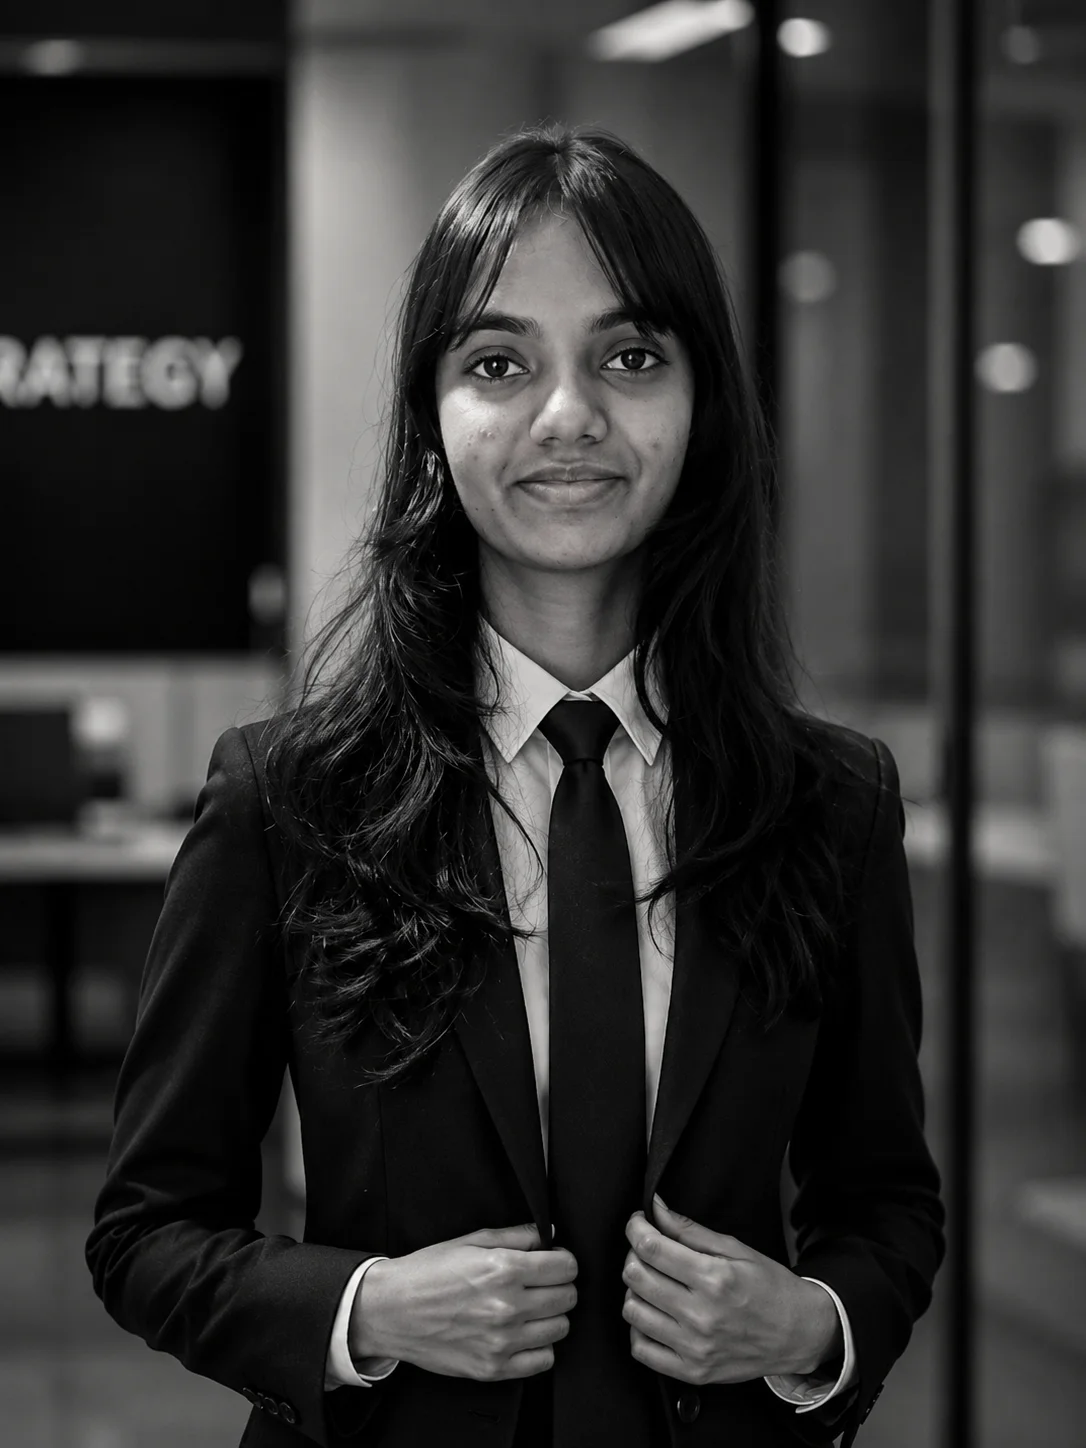
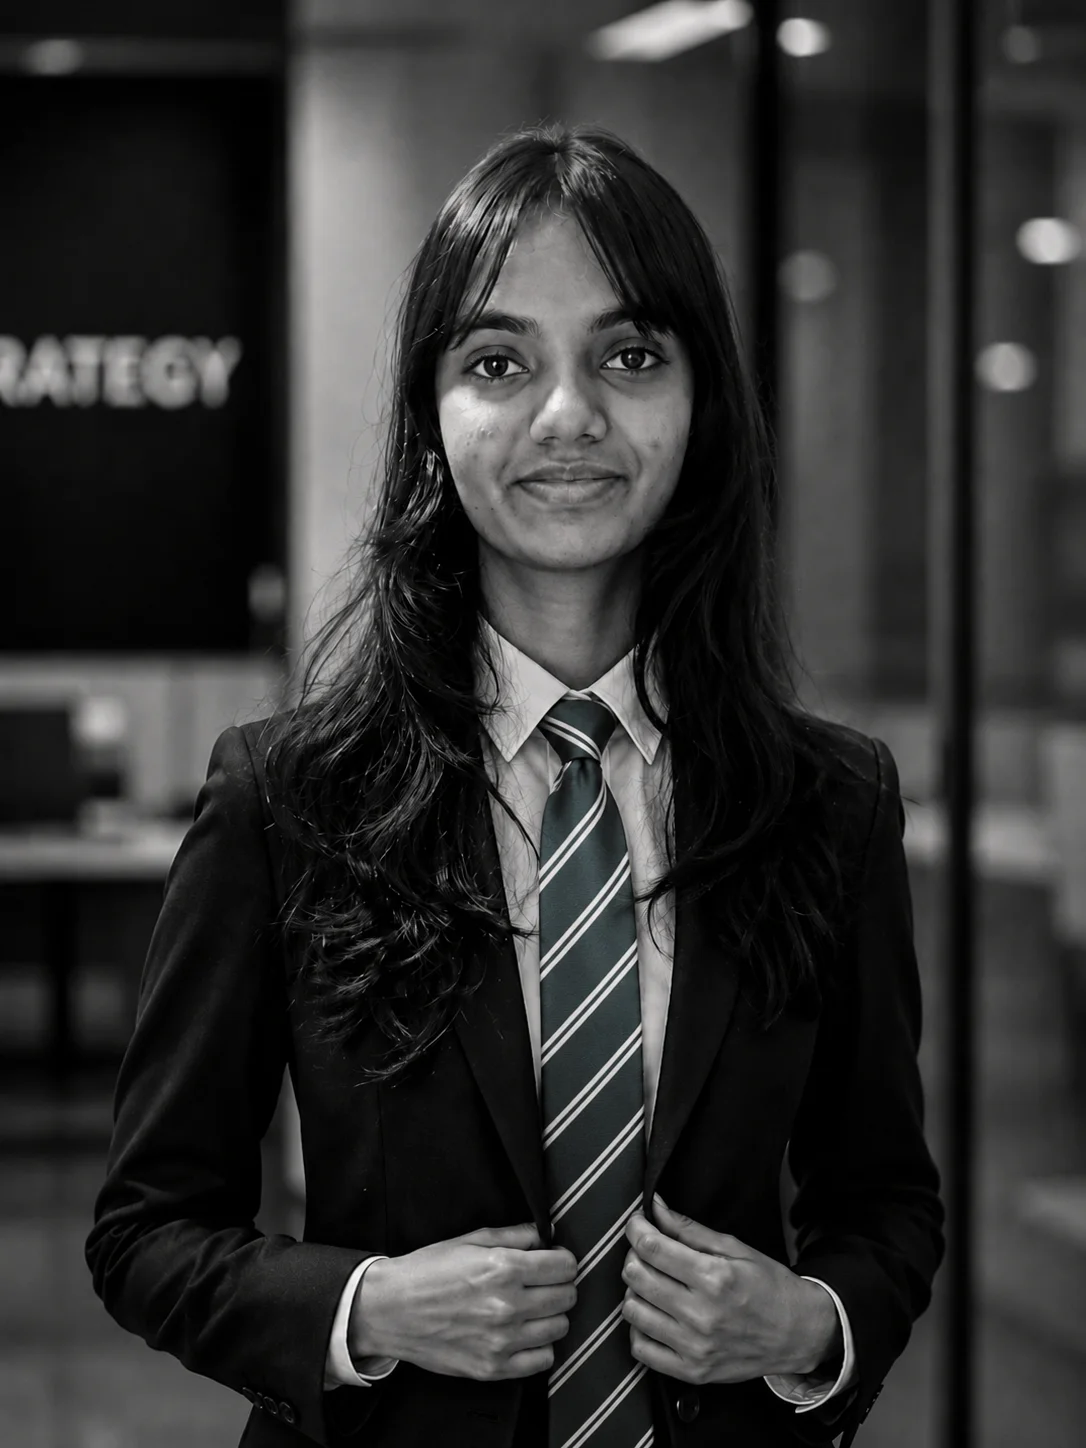
fix: update Thulja and Pawani photos, fix deputy chair card size and remove quotes

diff --git a/src/components/sections/BoardSection.tsx b/src/components/sections/BoardSection.tsx
@@ -90,51 +90,70 @@ export default function BoardSection() {
           >
             {activeTab === 'core' ? (
               <div className="flex flex-col gap-6 max-w-[900px] mx-auto w-full px-4 md:px-0">
-                {/* Deputy Chairpersons (Horizontal Rows) */}
-                {currentTeam.members.slice(0, 2).map((m: any) => (
-                  <div
-                    key={m.name}
-                    className="board-card flex flex-col md:flex-row rounded-3xl overflow-hidden text-left h-auto md:h-[280px] max-w-[240px] md:max-w-none mx-auto w-full"
-                    style={{
-                      background: 'rgba(255,255,255,0.02)',
-                      border: '1px solid rgba(255,255,255,0.06)',
-                      width: '100%'
-                    }}
-                  >
-                    {/* Image Left */}
-                    <div 
-                      className="relative w-full md:w-[280px] h-[170px] md:h-full shrink-0 bg-gradient-to-br from-[#151515] to-[#0a0a0a] flex items-center justify-center text-4xl text-white/10 overflow-hidden"
+                {/* Deputy Chairpersons Grid Container */}
+                <div style={{
+                  display: 'flex',
+                  gap: '20px',
+                  justifyContent: 'center',
+                  flexWrap: 'wrap',
+                  marginBottom: '24px'
+                }}>
+                  {currentTeam.members.slice(0, 2).map((m: any) => (
+                    <div
+                      key={m.name}
+                      className="board-card"
+                      style={{
+                        width: '240px',
+                        flexShrink: 0,
+                        background: 'rgba(255,255,255,0.03)',
+                        border: '1px solid rgba(255,255,255,0.08)',
+                        borderRadius: '16px',
+                        overflow: 'hidden'
+                      }}
                     >
-                      {m.photo ? (
-                        <img
-                          src={m.photo}
-                          alt={m.name}
-                          className="absolute inset-0 w-full h-full object-cover"
-                          style={{ objectPosition: 'center top' }}
-                        />
-                      ) : (
-                        <span className="relative z-10 font-light">{m.initials}</span>
-                      )}
-                    </div>
+                      {/* Photo area */}
+                      <div style={{
+                        width: '100%',
+                        aspectRatio: '1/1',
+                        overflow: 'hidden',
+                        position: 'relative'
+                      }}>
+                        {m.photo ? (
+                          <img
+                            src={m.photo}
+                            alt={m.name}
+                            className="absolute inset-0 w-full h-full object-cover"
+                            style={{ objectPosition: 'center top' }}
+                          />
+                        ) : (
+                          <div className="absolute inset-0 flex items-center justify-center bg-gradient-to-br from-[#151515] to-[#0a0a0a] text-4xl text-white/10">
+                            <span className="font-light">{m.initials}</span>
+                          </div>
+                        )}
+                      </div>
 
-                    {/* Text Details Right */}
-                    <div className="flex flex-col justify-center flex-grow core-card-text">
-                      <h3 className="text-xl md:text-3xl font-semibold text-white mb-1.5 font-sans" style={{ lineHeight: '1.2' }}>
-                        {m.name}
-                      </h3>
-                      <p className="text-[11px] tracking-[0.2em] uppercase text-white/40 font-normal mb-3 md:mb-4 font-sans">
-                        {m.role}
-                      </p>
-                      
-                      {/* Separator line */}
-                      <div className="h-px w-10 bg-white/[0.08] mb-3 md:mb-4" />
-
-                      <p className="text-[11px] md:text-sm text-white/60 leading-relaxed font-light italic">
-                        &ldquo;{m.quote}&rdquo;
-                      </p>
+                      {/* Info area — name and role only, NO quote */}
+                      <div style={{
+                        padding: '16px',
+                        borderTop: '1px solid rgba(255,255,255,0.06)'
+                      }}>
+                        <p style={{
+                          fontSize: '14px',
+                          fontWeight: '600',
+                          color: '#ffffff',
+                          marginBottom: '4px'
+                        }}>{m.name}</p>
+                        <p style={{
+                          fontSize: '11px',
+                          letterSpacing: '0.12em',
+                          textTransform: 'uppercase',
+                          color: 'rgba(255,255,255,0.35)',
+                          fontWeight: '400'
+                        }}>{m.role}</p>
+                      </div>
                     </div>
-                  </div>
-                ))}
+                  ))}
+                </div>
 
                 {/* Co-Secretaries Row */}
                 <div className="grid grid-cols-1 md:grid-cols-2 gap-6 w-full">

diff --git a/src/app/layout.tsx b/src/app/layout.tsx
@@ -1,11 +1,7 @@
 import type { Metadata } from "next";
-import { Inter, Space_Grotesk } from "next/font/google";
 import "./globals.css";
 import Preloader from '@/components/Preloader';
 import AnalyticsTracker from '@/components/AnalyticsTracker';
-
-const inter = Inter({ variable: "--font-inter", subsets: ["latin"], weight: ["300","400","500","600","700","800"], display: "swap" });
-const spaceGrotesk = Space_Grotesk({ variable: "--font-display", subsets: ["latin"], weight: ["400","500","600","700"], display: "swap" });
 
 export const metadata: Metadata = {
   title: 'AISCA | All Island Schools Commerce Association',
@@ -48,7 +44,7 @@ export const metadata: Metadata = {
 
 export default function RootLayout({ children }: { children: React.ReactNode }) {
   return (
-    <html lang="en" className={`${inter.variable} ${spaceGrotesk.variable}`} suppressHydrationWarning>
+    <html lang="en" suppressHydrationWarning>
       <head><meta name="theme-color" content="#030303" /></head>
       <body className="min-h-screen antialiased" suppressHydrationWarning>
         <AnalyticsTracker />

diff --git a/src/lib/constants.ts b/src/lib/constants.ts
@@ -150,8 +150,8 @@ export const boardTeams = [
     id: 'pr',
     label: 'Public Relations Team',
     members: [
-      { initials: 'TI', name: 'Thulja Imandi', role: 'Public Relations Manager', photo: '/board/thulja.webp' },
-      { initials: 'PY', name: 'Pawani Yashoda', role: 'Public Relations Manager', photo: '/board/pawani.webp' },
+      { initials: 'TI', name: 'Thulja Imandi', role: 'Public Relations Manager', photo: '/board/Thulja.webp' },
+      { initials: 'PY', name: 'Pawani Yashoda', role: 'Public Relations Manager', photo: '/board/Pawani.webp' },
       { initials: 'RT', name: 'Ranuth Thewmitha', role: 'Public Relations Manager', photo: '/board/Ranuth.webp' },
       { initials: 'LR', name: 'Lehara Rajapakse', role: 'Public Relations Manager', photo: '/board/Lehara.webp' },
     ]
